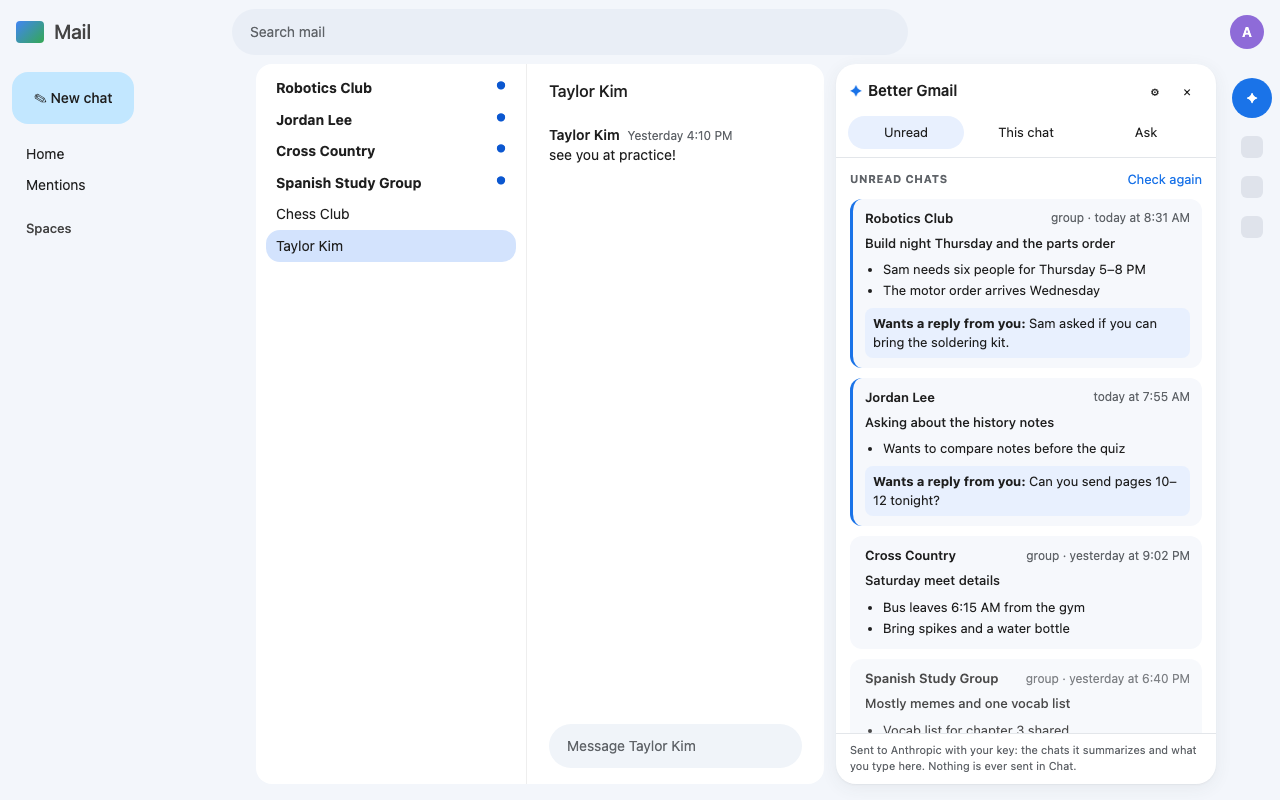
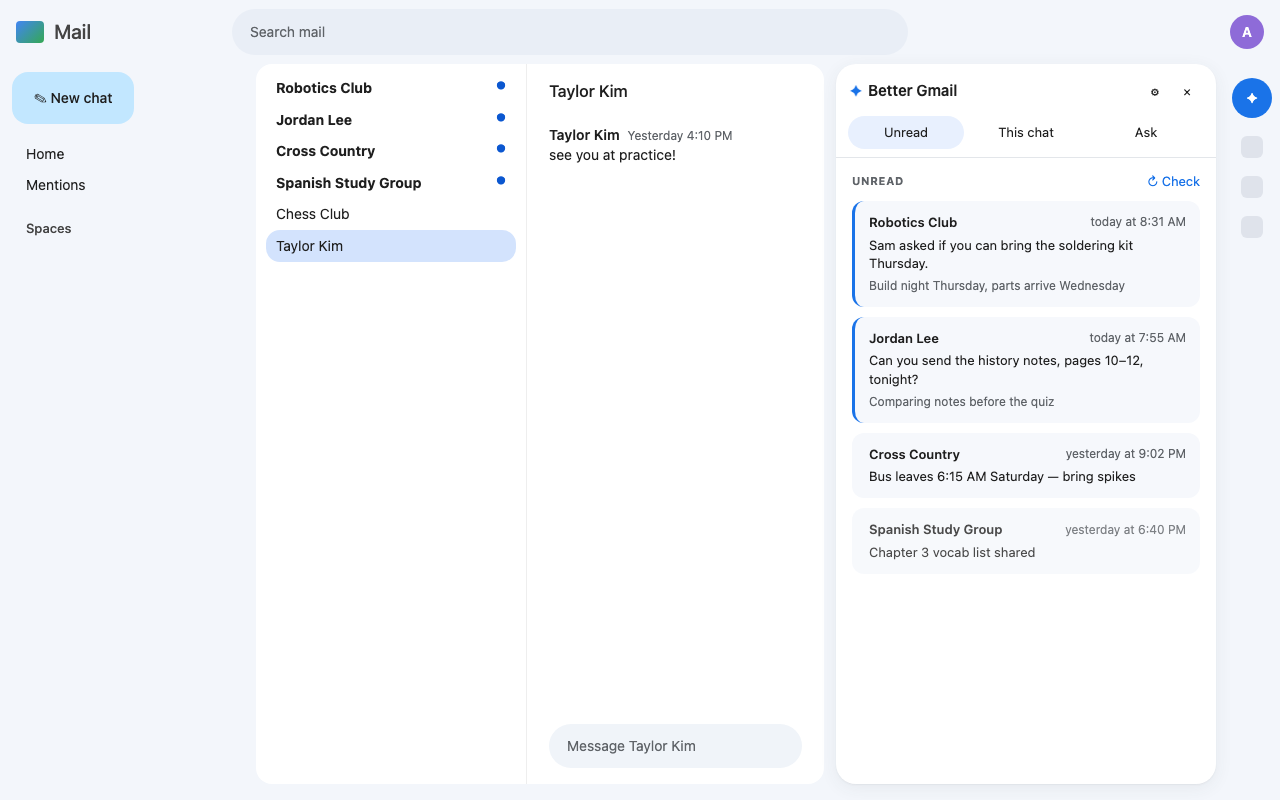
Privacy policy: the account name and address

Changed region(s): [[0.6562, 0.2188, 0.9375, 0.8125], [0.6562, 0.8438, 0.9375, 0.9688]]

diff --git a/privacy.html b/privacy.html
@@ -17,7 +17,7 @@ nav { margin-bottom:16px; }
 <p>Better Gmail is a Chrome extension that adds an AI assistant to Gmail and Google Chat. This page says exactly what it reads, where that goes, and what it never does.</p>
 <h2>What it reads</h2>
 <p>When you use Gmail with Better Gmail installed, it reads, <b>inside your own browser</b>:</p>
-<ul><li><b>The email thread you open</b> — so it can summarize it and help you reply.</li><li><b>The list of messages in your inbox</b> (sender, subject and the one-line preview Gmail shows) — to sort today&#x27;s inbox and to colour rows.</li><li><b>The Google Chat conversation you open</b> (who wrote each message, when, and its text). The first time, it scrolls back through the whole conversation once; after that it reads only messages newer than the last one it saw.</li><li><b>Your unread Google Chat conversations</b>, when you open the Unread tab — only the messages newer than the last ones it read. It opens them in a background tab and marks them unread again afterwards.</li><li><b>About a dozen emails from your Sent folder</b>, once, when you first use &quot;My voice&quot;, to learn how you write. Only the short description of your style it produces is kept.</li><li><b>Once an hour, for notifications</b>: which unread emails in your inbox are from your school&#x27;s domain, your Google Chat mentions, and the new messages in unread chats. Only the chat messages are sent to Anthropic, to ask whether any of them asks you something.</li><li><b>What you type into Better Gmail</b>, and the text you have written in a Gmail reply box when you press <i>Write it</i> or <i>Fix my writing</i>.</li></ul>
+<ul><li><b>The email thread you open</b> — so it can summarize it and help you reply.</li><li><b>The list of messages in your inbox</b> (sender, subject and the one-line preview Gmail shows) — to sort today&#x27;s inbox and to colour rows.</li><li><b>The Google Chat conversation you open</b> (who wrote each message, when, and its text). The first time, it scrolls back through the whole conversation once; after that it reads only messages newer than the last one it saw.</li><li><b>Your unread Google Chat conversations</b>, when you open the Unread tab — only the messages newer than the last ones it read. It opens them in a background tab and marks them unread again afterwards.</li><li><b>About a dozen emails from your Sent folder</b>, once, when you first use &quot;My voice&quot;, to learn how you write. Only the short description of your style it produces is kept.</li><li><b>Once an hour, for notifications</b>: which unread emails in your inbox are from your school&#x27;s domain, your Google Chat mentions, and the new messages in unread chats. Only the chat messages are sent to Anthropic, to ask whether any of them asks you something.</li><li><b>Your name and address</b> from your Google account button, so replies are signed with your name and your own chat messages are told apart from everyone else&#x27;s. They stay in your browser, and go to Anthropic only as part of a request.</li><li><b>What you type into Better Gmail</b>, and the text you have written in a Gmail reply box when you press <i>Write it</i> or <i>Fix my writing</i>.</li></ul>
 <h2>Where it goes</h2>
 <ul><li>To <b>Anthropic&#x27;s API</b> (<code>api.anthropic.com</code>), and nowhere else, using <b>the API key you enter yourself</b>. It is sent when a summary or digest is made (automatically, unless you turn that off in Settings) and when you press a button or send a chat message.</li><li><b>Nothing is sent to the developers of Better Gmail.</b> There is no server of ours, no analytics, no tracking and no advertising.</li><li>Anthropic handles that data under its own terms and privacy policy: <a href="https://www.anthropic.com/legal/privacy">https://www.anthropic.com/legal/privacy</a>.</li></ul>
 <h2>What is stored</h2>
